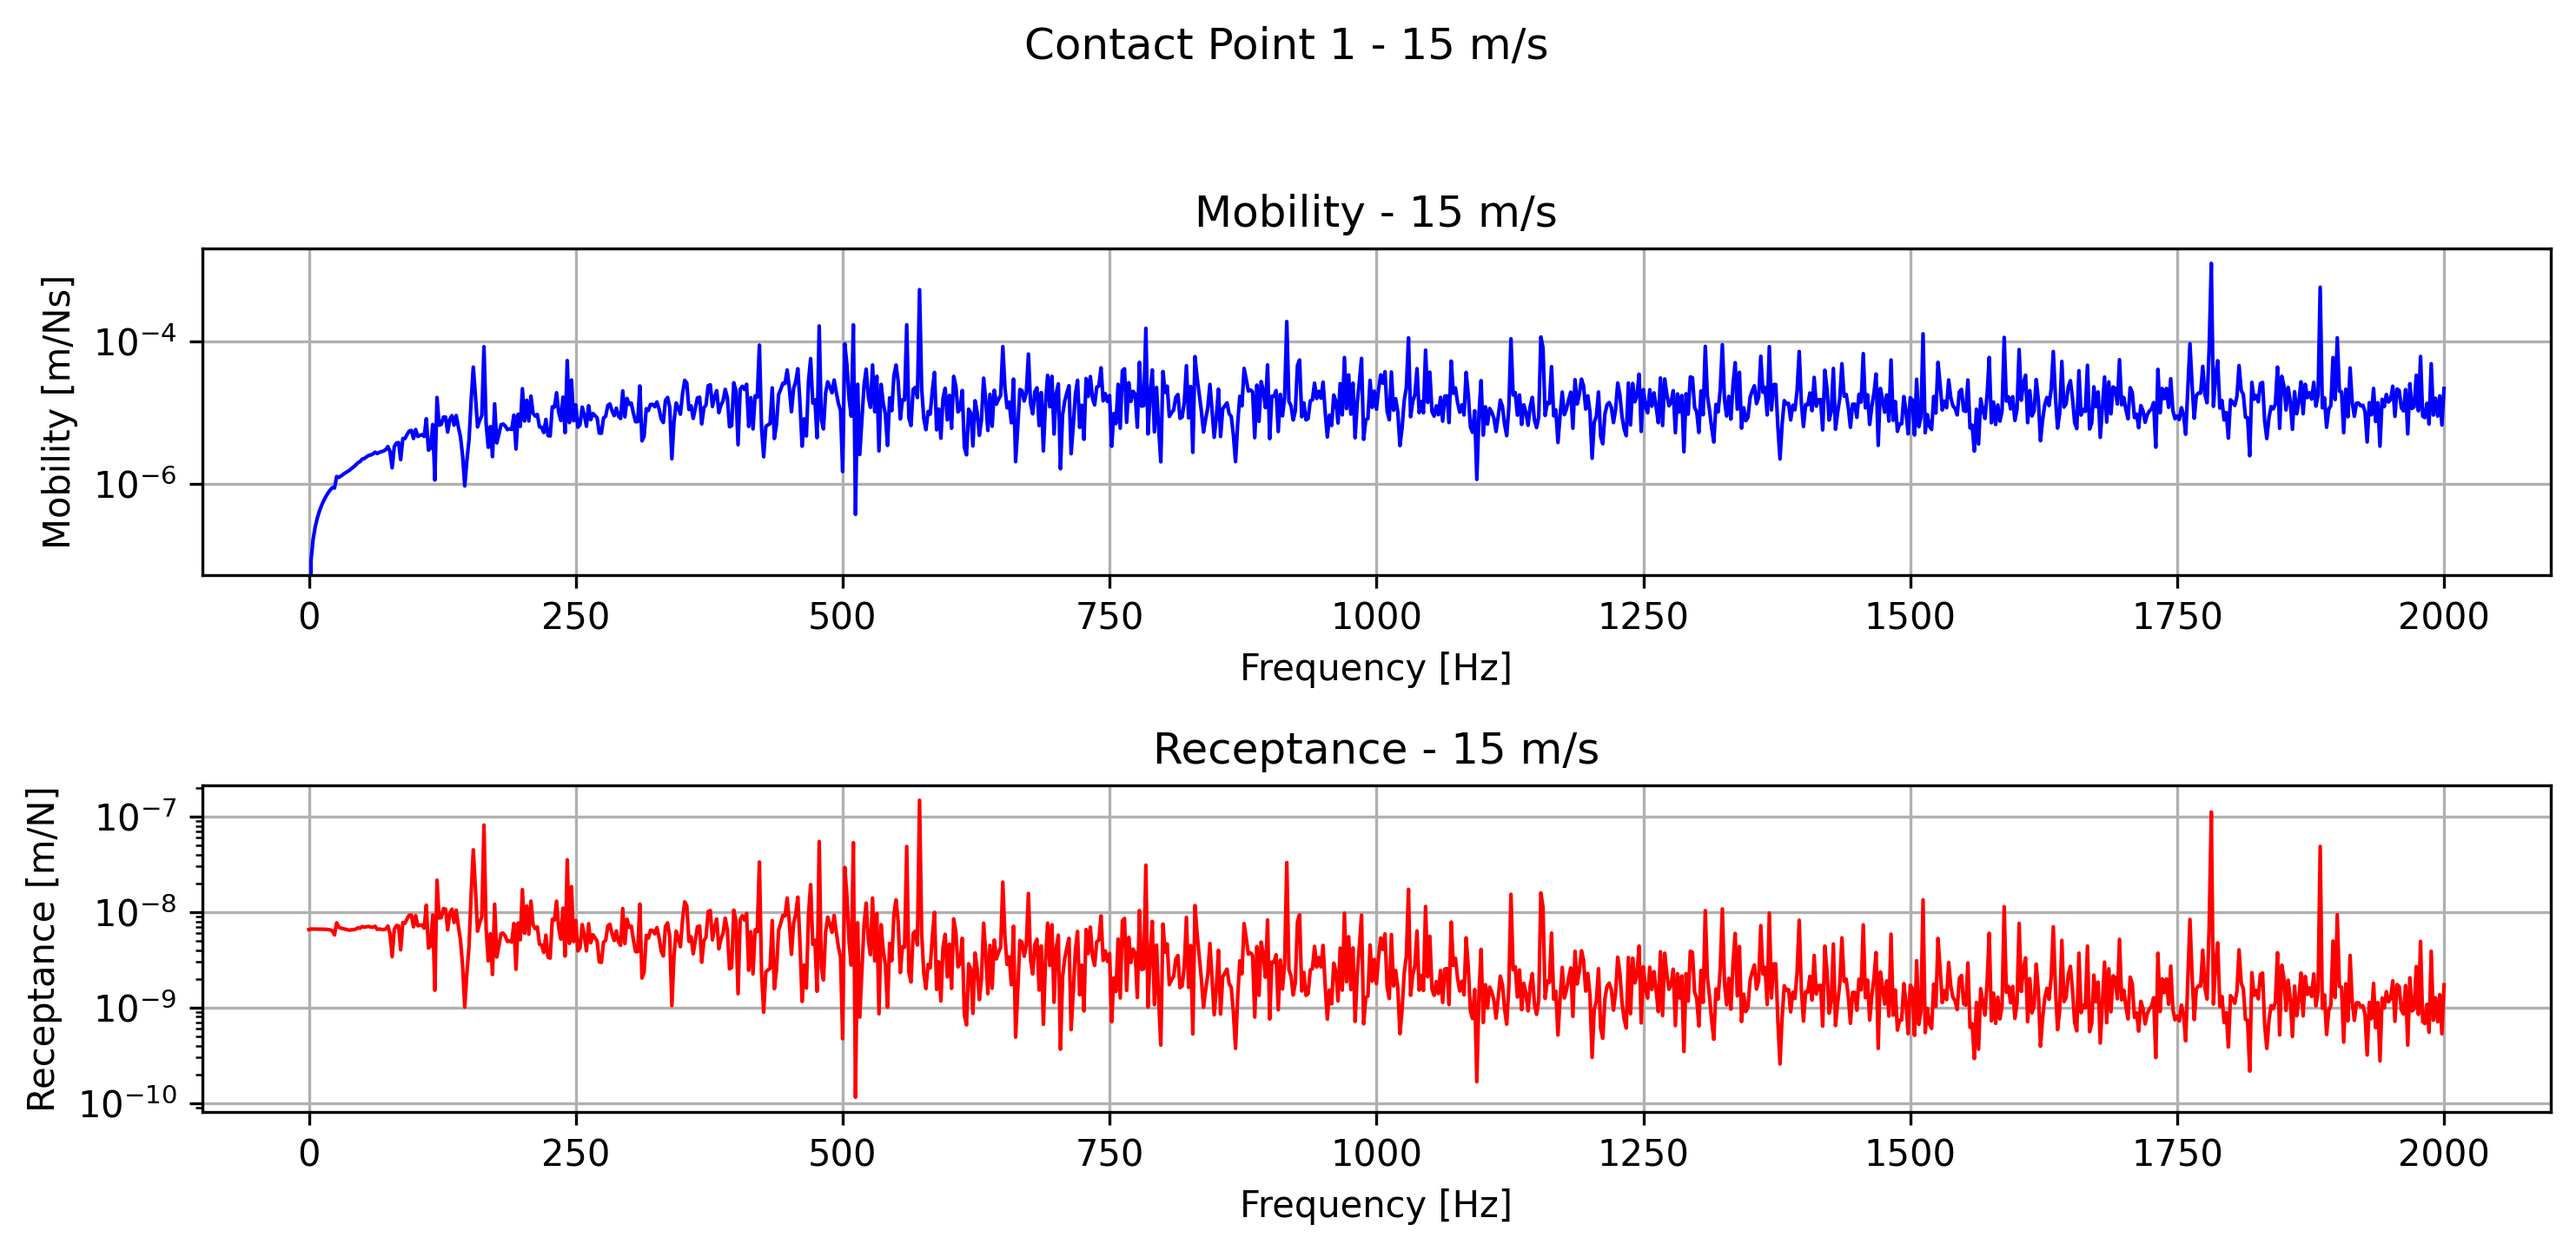
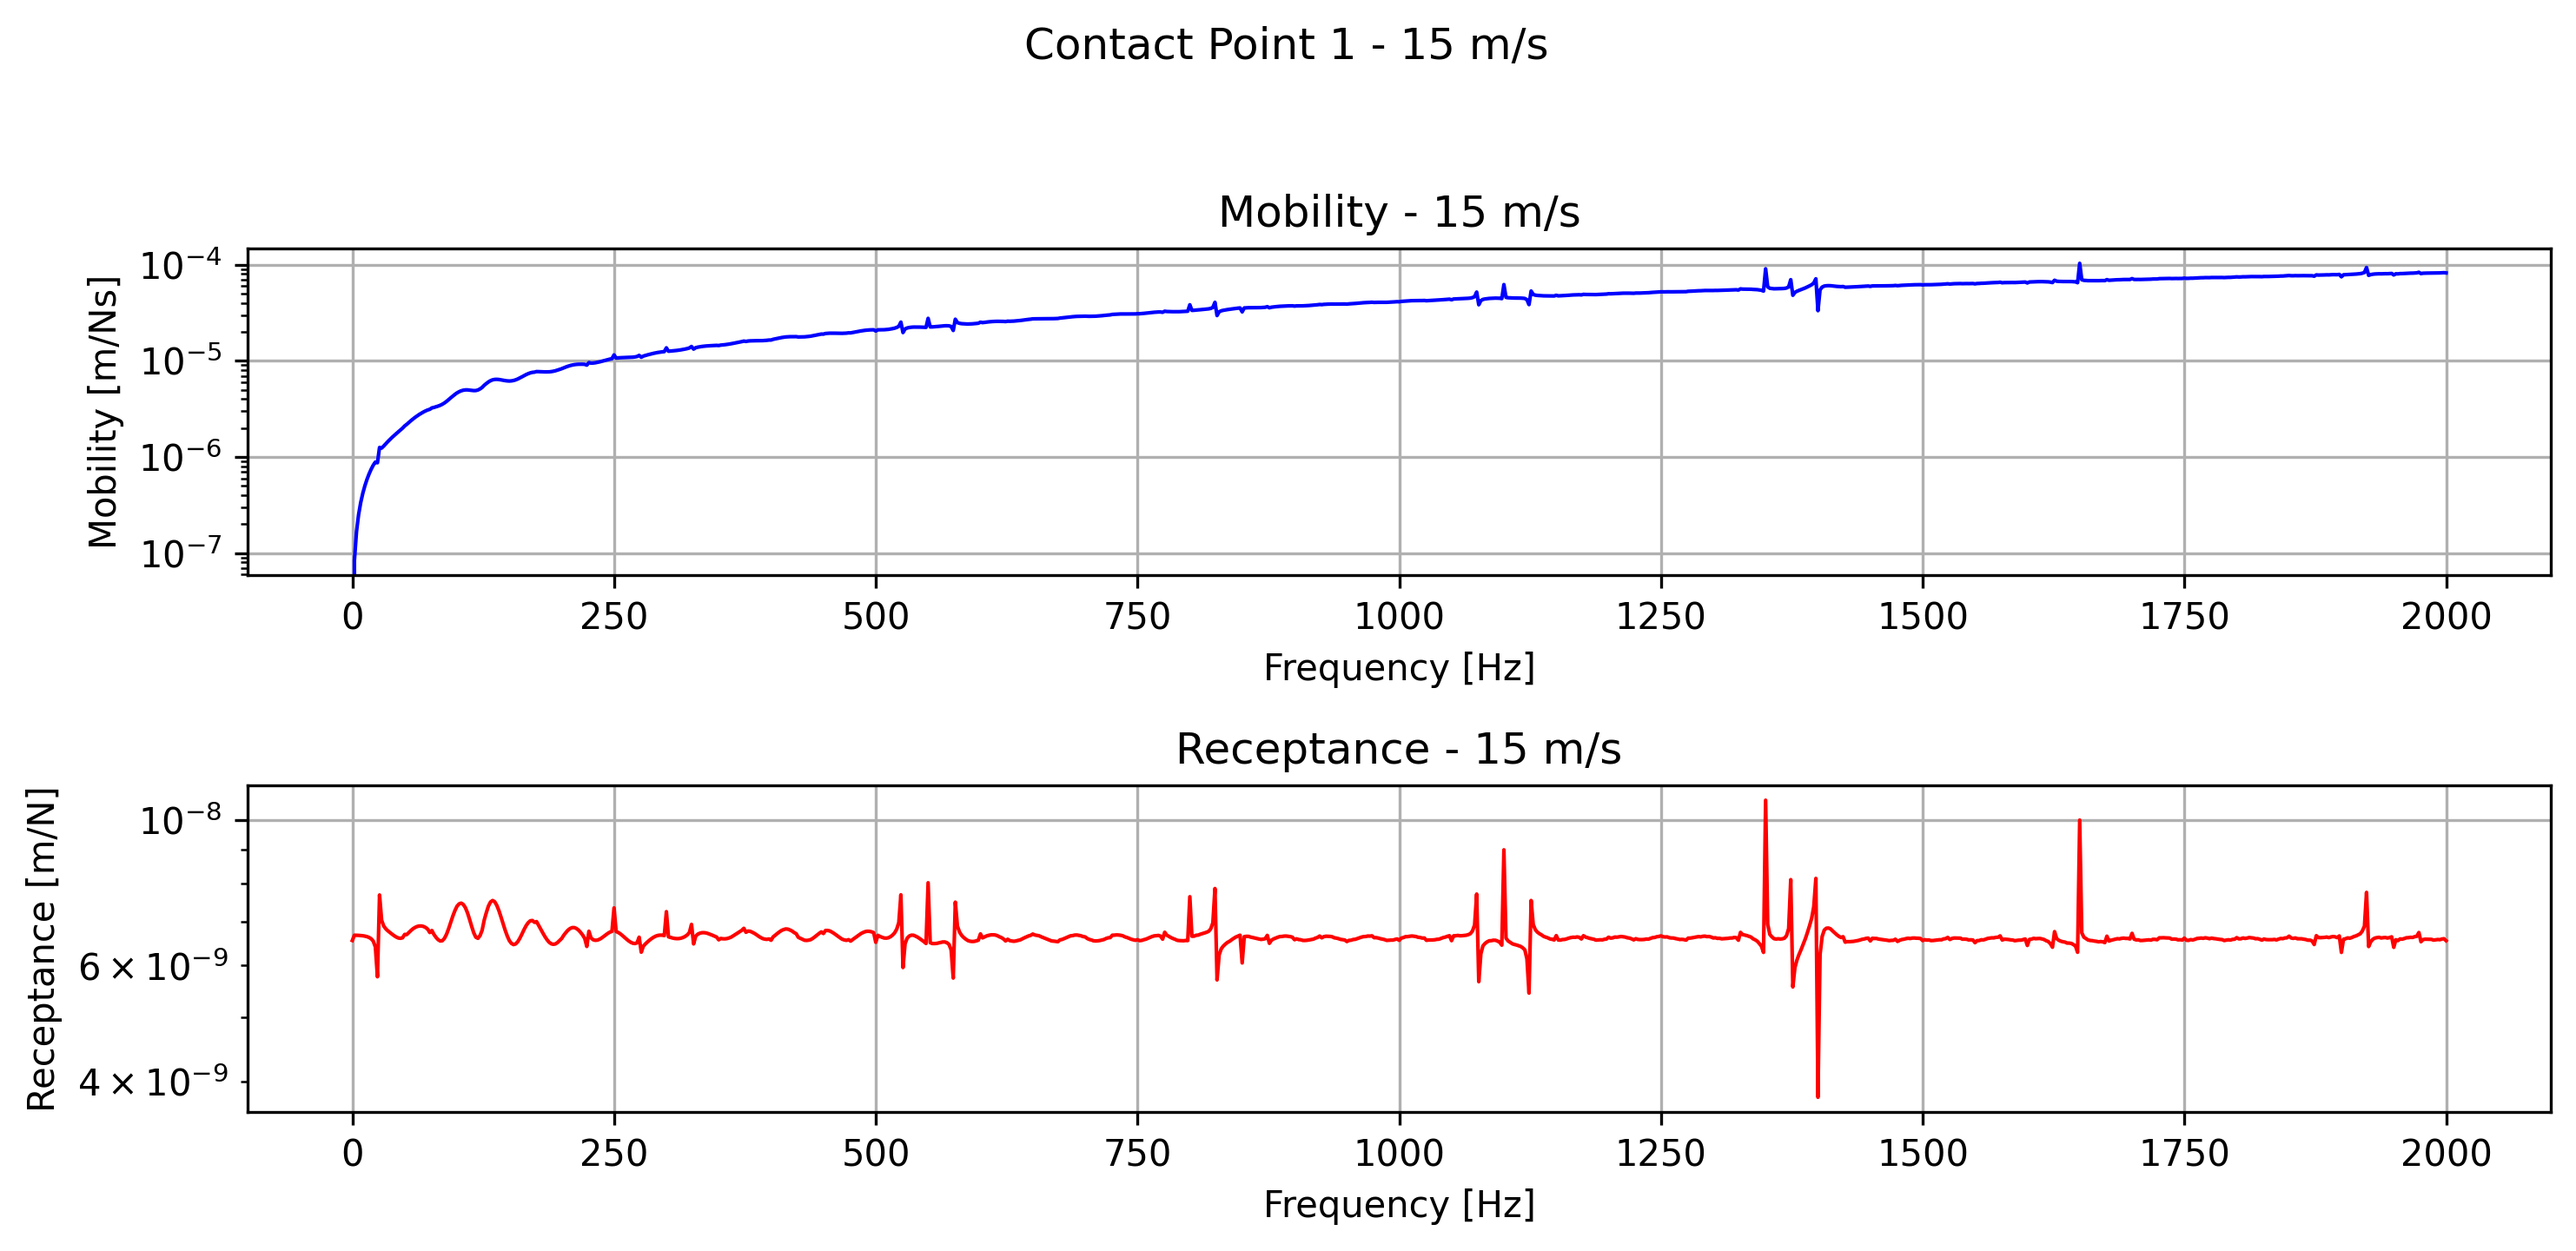
cleanup

diff --git a/Moving_Force.py b/Moving_Force.py
@@ -1,12 +1,15 @@
 """
 Track Vibration Analysis using Rolland API.
-Example simulation for quasistatic excitation of rail vibration.
+Moving load simulation for railway track dynamic response.
 
-This simulation is build using the following structure:
-    1. Create a railway track model
-    2. Apply excitation and boundary conditions
-    3. Run a vibration simulation
-    4. Analyze and plot the results
+This script demonstrates velocity-dependent mobility calculation for a
+ballasted railway track under moving wheel loads.
+
+Workflow:
+    1. Define railway track model (rail, pad, sleeper, ballast)
+    2. Set up boundary conditions and excitation
+    3. Run FDM simulation for multiple velocities
+    4. Calculate and save mobility/receptance frequency responses
 """
 
 # Import required components from Rolland library
@@ -27,7 +30,9 @@ from scipy.fft import fft, fftfreq
 import os
 from pathlib import Path
 
-# 1. TRACK DEFINITION ----------------------------------------------------------
+# =============================================================================
+# 1. TRACK DEFINITION
+# =============================================================================
 # Create a ballasted single rail track model with periodic supports
 track = SimplePeriodicBallastedSingleRailTrack(
     rail    = UIC60,                # Standard UIC60 rail profile
@@ -44,64 +49,65 @@ track = SimplePeriodicBallastedSingleRailTrack(
     distance    = 0.6               # Distance between sleepers [m]
 )
 
-# 2. SIMULATION SETUP ---------------------------------------------------------
+# =============================================================================
+# 2. SIMULATION SETUP
+# =============================================================================
 # Define boundary conditions (Perfectly Matched Layer absorbing boundary)
 boundary    = PMLRailDampVertic(l_bound = 5.0)  # width of boundary domain
 
-# Create output directory for plots
+# Output directory
 output_dir = Path('mobility_plots')
 output_dir.mkdir(exist_ok=True)
-
-# Velocity loop
-velocities = np.arange(5, 105, 5)  # 5 to 100 m/s in 5 m/s steps
-# velocities = [10]
 
 # clear mobility plots directory
 for file in output_dir.glob('*.png'):
     os.remove(file)
 
+# =============================================================================
+# 3. VELOCITY SWEEP SIMULATION
+# =============================================================================
+velocities = np.arange(5, 105, 5)  # 5 to 100 m/s in 5 m/s steps
+
 for vel in velocities:
-    print(f"Calculating for velocity {vel} m/s ({vel*3.6:.0f} km/h)")
+    print(f"Computing velocity: {vel} m/s ({vel*3.6:.1f} km/h)")
     
-    # Define excitation with current velocity
+    # Define moving load excitation
     excitation = ConstantForce(
-        x_excit=[15.0],
-        velocity=float(vel),
-        force_amplitude=50000.0
+        x_excit         = [15.0],       # Starting positions [m]
+        velocity        = float(vel),   # Velocity [m/s]
+        force_amplitude = 50000.0       # [N]
     )
 
-    # 3. DISCRETIZATION & SIMULATION ----------------------------------------------
-    # Set up numerical discretization parameters
-    discretization = DiscretizationEBBVerticConst(
-        track = track,
-        bound = boundary,
-    )
+    # Discretize domain
+    discretization = DiscretizationEBBVerticConst(track=track, bound=boundary)
 
-    # Run the simulation and calculate deflection over time
+    # Solve for deflection
     deflection_results = DeflectionEBBVertic(
-        discr = discretization,
-        excit = excitation
+        discr=discretization,
+        excit=excitation
     )
 
-    # 4. POSTPROCESSING & VISUALIZATION -------------------------------------------
-    # 4.0 Calculate and plot mobility spectrum for each contact point
-    t = np.linspace(0, discretization.req_simt, len(deflection_results.contact_point_deflection[0]))
-    fs = 1/(t[1] - t[0])
+    # =============================================================================
+    # 4. POSTPROCESSING - Frequency Response
+    # =============================================================================
+    t = np.linspace(0, discretization.req_simt, 
+                    len(deflection_results.contact_point_deflection[0]))
+    fs = 1 / (t[1] - t[0])
 
-    # Get FFT of force once (same for all wheels)
-    force_time = deflection_results.force
-    force_fft = fft(force_time)
+    # FFT of force (includes ramp and random components)
+    force_fft = fft(deflection_results.force)
 
-    # Create and save plots for each wheel
+    # Process each contact point
     for i, contact_defl in enumerate(deflection_results.contact_point_deflection):
-        # Perform FFT of deflection
-        deflection_fft  = fft(contact_defl)
-        freqs           = fftfreq(len(t), 1/fs)
-        omega           = 2 * np.pi * freqs
-        mobility        = 1j * omega * deflection_fft / force_fft
-        receptance      = deflection_fft / force_fft
+        deflection_fft = fft(contact_defl)
+        freqs = fftfreq(len(t), 1/fs)
+        omega = 2 * np.pi * freqs
+        
+        # Calculate FRFs
+        mobility = 1j * omega * deflection_fft / force_fft  # [m/s/N]
+        receptance = deflection_fft / force_fft  # [m/N]
 
-        # Filter for frequencies up to 2 kHz
+        # Filter to 0-2000 Hz
         mask = (freqs >= 0) & (freqs <= 2000)
 
         plt.figure(figsize=(10, 5))
@@ -129,14 +135,14 @@ for vel in velocities:
     # Optional: Clear memory
     plt.close('all')
 
-# # 4.1 Plot deflection over time
-# deflection = np.transpose(deflection_results.deflection)
-# deflection = deflection[:, :deflection.shape[1] // 2]  # Take only the rail deflection part, drop sleeper part
-# resp.plotMatrix(
-#     deflection      = deflection, 
-#     track           = track,
-#     simulation_time = discretization.req_simt,
-# )
+# 4.1 Plot deflection over time
+deflection = np.transpose(deflection_results.deflection)
+deflection = deflection[:, :deflection.shape[1] // 2]  # Take only the rail deflection part, drop sleeper part
+resp.plotMatrix(
+    deflection      = deflection, 
+    track           = track,
+    simulation_time = discretization.req_simt,
+)
 
 
 # # 4.2 Calculate frequency response at excitation point

diff --git a/rolland/excitation.py b/rolland/excitation.py
@@ -101,16 +101,16 @@ class ConstantForce(MovingExcitation):
         #     high    = 0.1 * self.force_amplitude,
         #     size    = n - ramp_length
         # )
-        random_component = np.random.uniform(
-            low     = 0,
-            high    = self.force_amplitude,
-            size    = n - ramp_length
-        )
+        # random_component = np.random.uniform(
+        #     low     = 0,
+        #     high    = self.force_amplitude,
+        #     size    = n - ramp_length
+        # )
         constant_part = [self.force_amplitude] * (n - ramp_length)
 
 
-        force_array.extend(np.array(constant_part) + random_component)
-        # force_array.extend(np.array(constant_part))
+        # force_array.extend(np.array(constant_part) + random_component)
+        force_array.extend(np.array(constant_part))
 
 
         return force_array

diff --git a/rolland/deflection.py b/rolland/deflection.py
@@ -115,7 +115,16 @@ class DeflectionEBBVertic(Deflection):
 
 
     def calc_deflection(self, defl):
-        """Calculate deflection."""
+        """Calculate deflection using Crank-Nicolson time-stepping.
+        
+        For moving loads, contact point positions are updated each timestep
+        based on velocity: position(t) = initial_position + velocity * t
+        
+        Returns
+        -------
+        defl : numpy.ndarray
+            Full deflection history (2*nx, nt+1) containing rail and sleeper DOFs
+        """
         # Convert single excitation point to list for uniform handling
         if not isinstance(self.excit.x_excit, list):
             self.excit.x_excit = [self.excit.x_excit]
